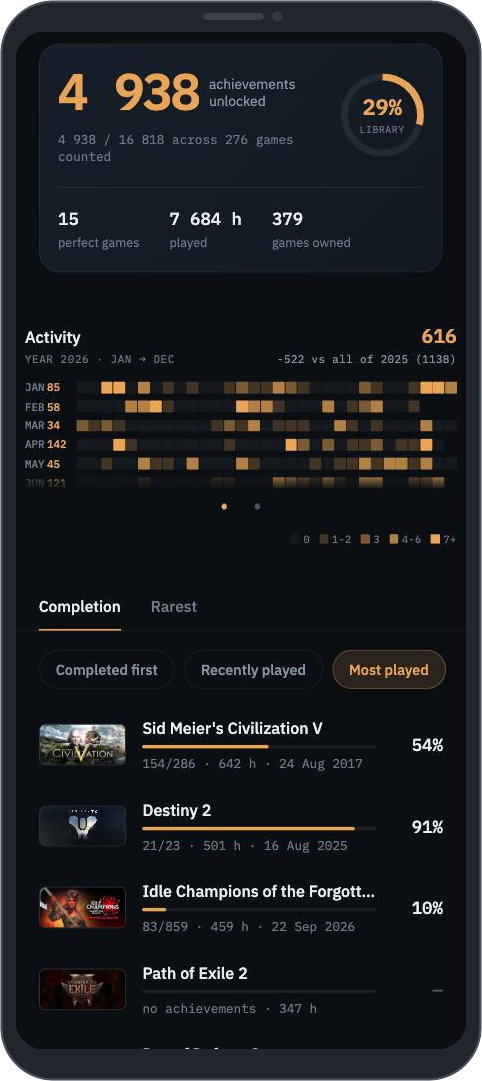
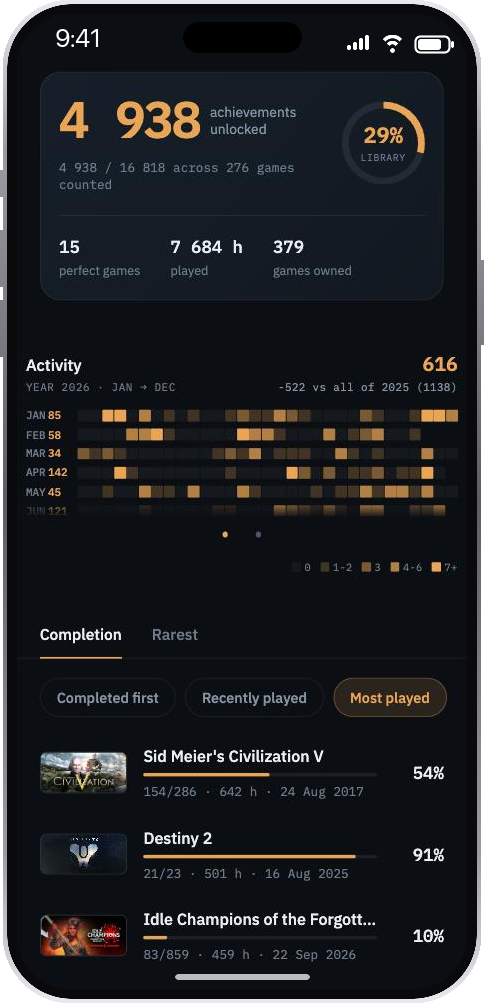
docs: give the framed screenshots a phone worth looking at
The first bezel was a rounded rectangle, and read as one. This one has a
brushed metal rail, side buttons cut from the same metal, an iOS status
bar standing on the capture's own top row, and a home indicator over the
foot of the content.

Both screens now come out 484x1003: the capture is cut to a phone's
19.5:9 from the top, so two phones of different lengths can no longer
stand side by side in the README.

Claude-Session: https://claude.ai/code/session_01VDajBdTugJ8QtD84GB5Y4W

diff --git a/docs/images/README.md b/docs/images/README.md
@@ -1,16 +1,29 @@
 # The screenshots in the README
 
-`library.png` and `game.png` are the two screens the main README shows, and each one is a raw
-capture already wrapped in a phone bezel by `frame-phone.sh`.
+`library.png` and `game.png` are the two screens the main README shows. Each one is a raw capture
+put inside a phone by `frame-phone.sh`: metal rail, black bezel, side buttons, a status bar and a
+home indicator.
 
-**The bezel is baked into the PNG on purpose.** GitHub strips `style` attributes and `<style>`
-blocks out of a README, so there is no border-radius, no shadow and no frame to be had in
-markup: an image either arrives with its frame or it does not get one.
+**The phone is baked into the PNG on purpose.** GitHub strips `style` attributes and `<style>`
+blocks out of a README, so there is no border-radius, no gradient and no frame to be had in
+markup: an image either arrives with its body or it does not get one.
 
 **The framed file is the only file.** The raw capture is not kept beside it, which is what keeps
 the two from drifting apart — there is no second image to forget to rebuild, and no command
-anyone has to remember to run. The price is that the bezel cannot be re-styled without
-re-capturing the screen.
+anyone has to remember to run. The price is that the phone cannot be restyled without
+re-capturing the screens.
+
+## What the script adds that the capture does not have
+
+The screen is **19.5:9**, the shape of a real phone, and every capture is cut to it from the top.
+That is what makes the two images the same height whatever was captured — the README stands them
+side by side, and two phones of different lengths read as a mistake.
+
+The **status bar** is drawn, because the app draws under it and the capture starts below it. Its
+background is the capture's own top row stretched upward, so a game's hero image runs up behind
+the clock instead of meeting a flat band of colour. The **home indicator** is drawn over the foot
+of the content rather than given a band of its own, which is where a phone puts it, and which
+avoids stretching a row of achievement icons into a smear of stripes.
 
 ## Replacing a screenshot
 
@@ -20,11 +33,13 @@ Capture the screen, then frame the capture before committing it:
 ./frame-phone.sh ~/Desktop/capture.png library.png
 ```
 
-Pass the **raw** capture. Running the script over `library.png` would put a bezel around the
-bezel, and the result looks almost right, which is the problem with it.
+Pass the **raw** capture. Running the script over `library.png` would put a phone around the
+phone, and the result looks almost right, which is the problem with it. A capture shorter than
+the screen is refused rather than stretched.
 
-The script needs ImageMagick 7 (`brew install imagemagick`). Nothing in the repository depends
-on it — no test, no workflow, no other command — so it costs nothing to not have installed until
-the day a screenshot changes.
+The script needs ImageMagick 7 (`brew install imagemagick`) and a font — it reaches for macOS's
+`/System/Library/Fonts/SFNS.ttf`, and `PHONE_FRAME_FONT=/path/to/font.ttf` points it elsewhere.
+Nothing in the repository depends on either: no test, no workflow, no other command. There is
+nothing to install until the day a screenshot changes.
 
-Captures run about 450 px wide; the README lays the two out side by side at 46% each.
+Captures run about 450 px wide, which is the width the screen is cut to.

diff --git a/docs/commands.md b/docs/commands.md
@@ -111,8 +111,9 @@ drifted from their sources without anyone knowing (#134).
 `tools/icon-build/src/recipes.ts` says what each image comes from, including the three that look
 as though they could come from `icon.svg` and cannot.
 
-`docs/images/` holds the two screenshots the README shows, each one already wrapped in a phone
-bezel — GitHub strips the CSS that would draw one, so the frame has to be inside the PNG.
+`docs/images/` holds the two screenshots the README shows, each one already inside a phone —
+GitHub strips the CSS that would draw one, so the body has to be inside the PNG. The script also
+cuts the capture to a phone's 19.5:9, which is what keeps the two images the same height.
 
 ```sh
 cd docs/images && ./frame-phone.sh ~/Desktop/capture.png library.png
